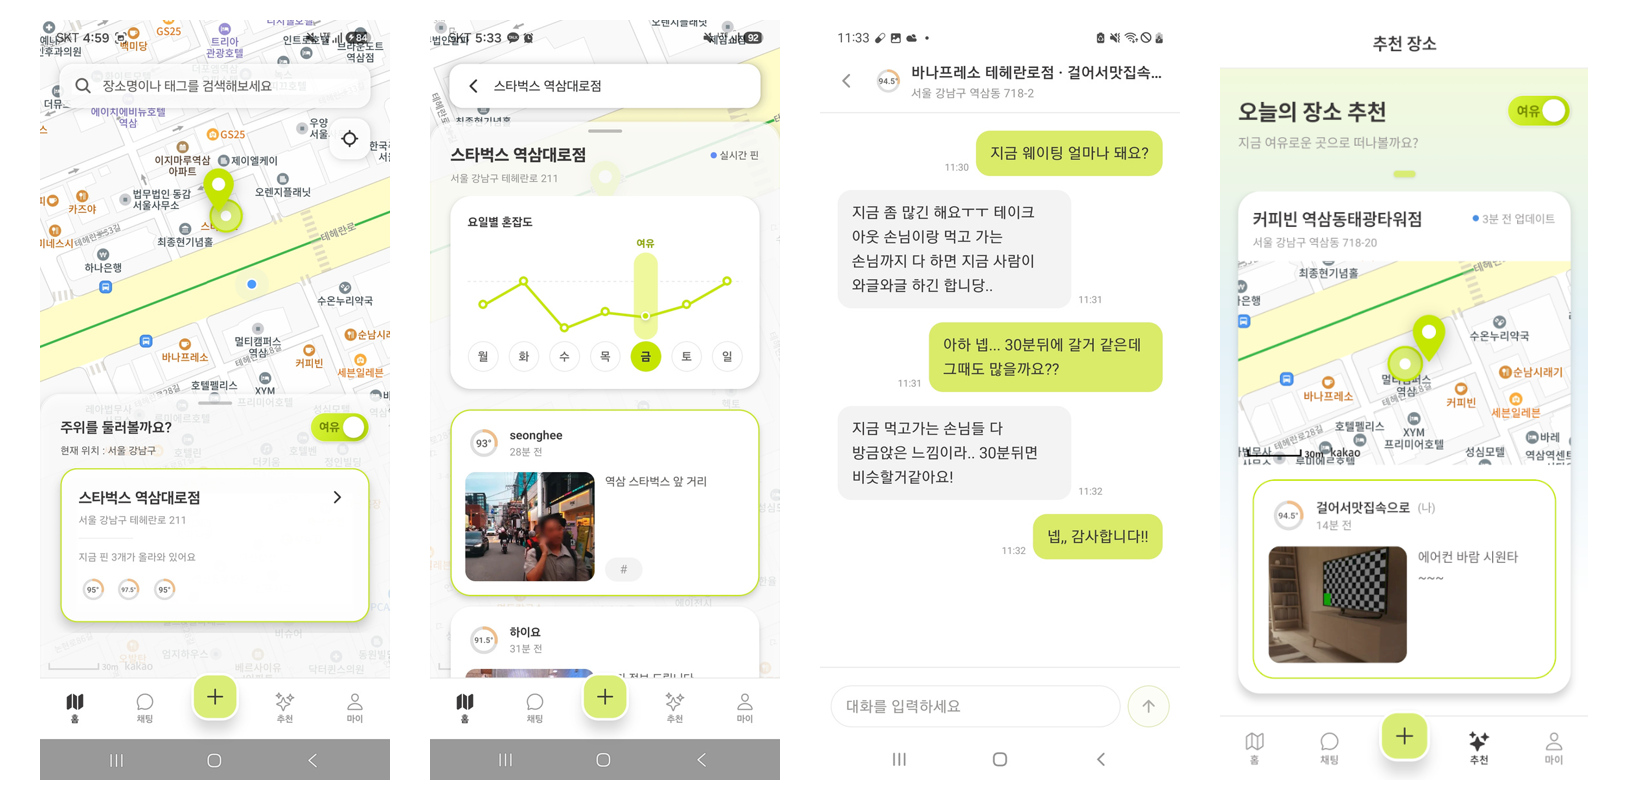
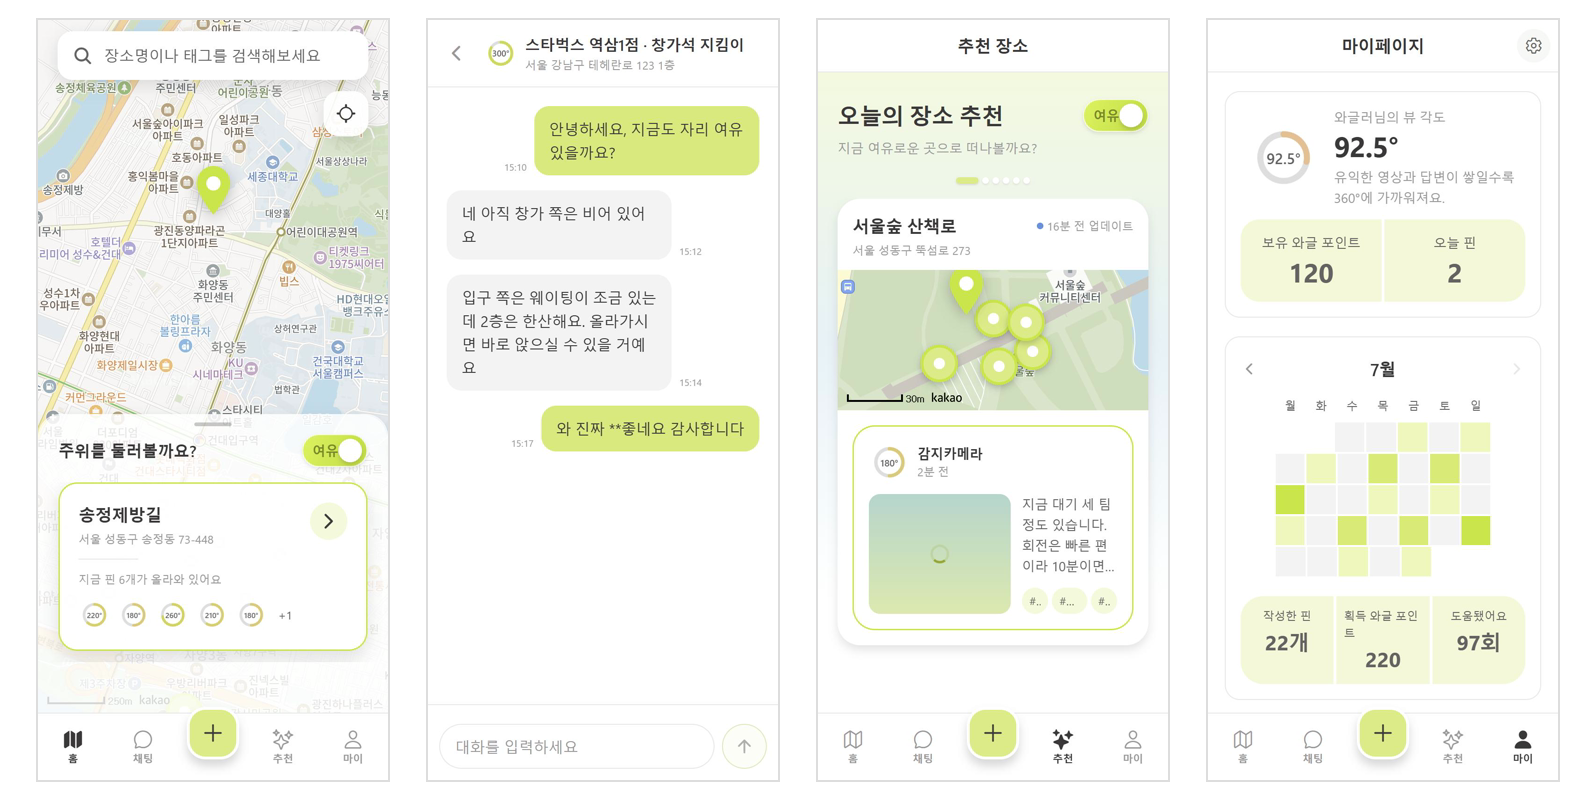
docs: README 화면을 목업 모드 실행 캡처로 교체, 홍보 영상 위치 정리, 마이페이지 추가

diff --git a/README.md b/README.md
@@ -1,11 +1,5 @@
 <div align="center">
 
-
-
-https://github.com/user-attachments/assets/9b7ed09a-7d70-4a34-9384-f1157f87ad13
-
-
-
 <img src="docs/readme/logo.gif" alt="와글와글 로고" width="420">
 
 # 와글와글
@@ -15,7 +9,7 @@ https://github.com/user-attachments/assets/9b7ed09a-7d70-4a34-9384-f1157f87ad13
 지금 그 장소가 얼마나 붐비는지 **5초짜리 현장 영상**으로 확인하는 안드로이드 앱<br>
 올라온 영상은 AI가 행인 얼굴을 가린 뒤 공개되고, 열람은 크레딧으로 합니다.
 
-<img src="docs/readme/screens_main.png" alt="와글와글 대표 화면 — 홈, 장소 상세, 채팅, 장소 추천" width="860">
+<img src="docs/readme/screens_main.png" alt="와글와글 대표 화면 — 홈, 채팅, 장소 추천, 마이페이지" width="860">
 
 </div>
 
@@ -55,6 +49,12 @@ https://github.com/user-attachments/assets/9b7ed09a-7d70-4a34-9384-f1157f87ad13
 
 <br>
 
+### 홍보 영상
+
+https://github.com/user-attachments/assets/9b7ed09a-7d70-4a34-9384-f1157f87ad13
+
+<br>
+
 ---
 
 ## 2. 기획 배경
@@ -76,6 +76,8 @@ https://github.com/user-attachments/assets/9b7ed09a-7d70-4a34-9384-f1157f87ad13
 ---
 
 ## 3. 주요 기능
+
+> 홈 · 채팅 · 추천 · 마이페이지 화면은 백엔드 없이 앱의 목업 데이터 모드로 실행해 캡처했습니다.
 
 ### 3.1 실시간 영상핀
 
@@ -112,11 +114,11 @@ https://github.com/user-attachments/assets/9b7ed09a-7d70-4a34-9384-f1157f87ad13
 
 ### 3.4 1:1 익명 채팅 · AI 위험 감지
 
-- 영상을 올린 사람에게 현장 상황을 바로 물어볼 수 있습니다.
+- 영상을 올린 사람에게 현장 상황을 바로 물어볼 수 있습니다. 욕설은 보내는 순간 가려집니다.
 - 외부 메신저로 유도하는 등 위험한 대화 패턴이 보이면 경고를 띄웁니다.
 
 <p align="center">
-  <img src="docs/readme/screens_chat.png" alt="1:1 채팅과 AI 위험 감지 경고" width="560">
+  <img src="docs/readme/screens_chat.png" alt="채팅 목록, 채팅방, AI 위험 감지 경고" width="760">
 </p>
 
 <br>
@@ -127,6 +129,16 @@ https://github.com/user-attachments/assets/9b7ed09a-7d70-4a34-9384-f1157f87ad13
 
 <p align="center">
   <img src="docs/readme/screens_reco.png" alt="여유 / 와글 장소 추천" width="560">
+</p>
+
+<br>
+
+### 3.6 마이페이지
+
+- 내 신뢰도(뷰 각도)와 보유 포인트, 달마다 핀을 올린 날을 달력으로 보여 줍니다.
+
+<p align="center">
+  <img src="docs/readme/screens_mypage.png" alt="마이페이지" width="280">
 </p>
 
 <br>
